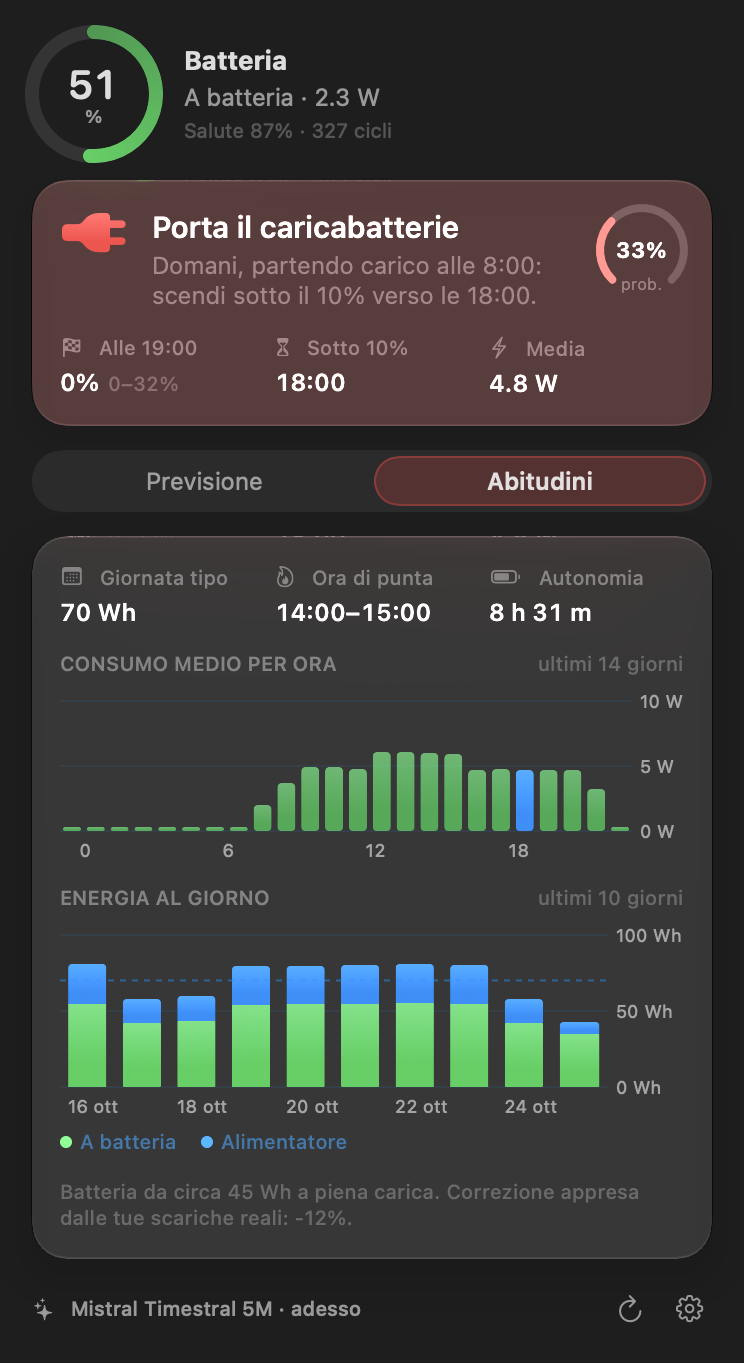
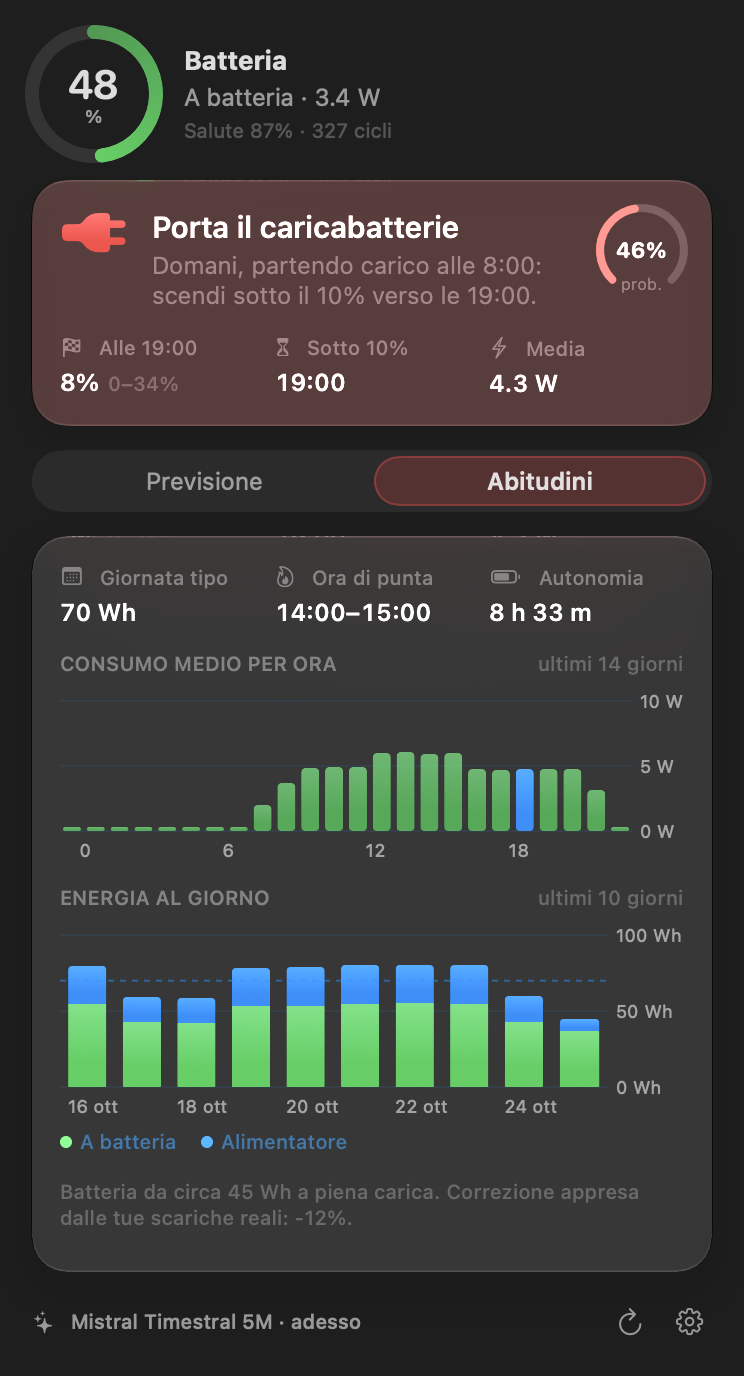
Open settings in a window and fix popover clipping
A MenuBarExtra window keeps the height it opened with, so the settings
form and the taller Habits tab were cut off. Settings now open in their
own window and both tabs share a fixed height.

diff --git a/Sources/BatteryOracle/Views/PopoverView.swift b/Sources/BatteryOracle/Views/PopoverView.swift
@@ -7,33 +7,30 @@ struct PopoverView: View {
 
     enum Tab: String, CaseIterable { case forecast = "Previsione", habits = "Abitudini" }
 
+    /// A MenuBarExtra window keeps the size it opened with, so both tabs share one fixed height.
+    static let tabHeight: CGFloat = 368
+
     /// View-local state lives here: the Command Line Tools SDK ships SwiftUI's `@State` as a macro without its plugin.
     final class PopoverState: ObservableObject {
         @Published var tab = CommandLine.arguments.contains("--habits") ? Tab.habits : Tab.forecast
-        @Published var showSettings = CommandLine.arguments.contains("--settings")
     }
 
     var body: some View {
         VStack(alignment: .leading, spacing: 12) {
-            if ui.showSettings {
-                SettingsView(m: m) { withAnimation(.smooth) { ui.showSettings = false } }
-                    .transition(.move(edge: .trailing).combined(with: .opacity))
-            } else {
+            header
+            if m.battery == nil {
+                noBattery
+            } else if let o = m.outlook {
+                VerdictCard(o: o, m: m)
+                CapsuleTabs(selection: $ui.tab, tint: o.verdict.color)
                 Group {
-                    header
-                    if m.battery == nil {
-                        noBattery
-                    } else if let o = m.outlook {
-                        VerdictCard(o: o, m: m)
-                        CapsuleTabs(selection: $ui.tab, tint: o.verdict.color)
-                        if ui.tab == .forecast { ForecastChart(o: o, m: m) } else { HabitsView(m: m) }
-                    } else {
-                        learning
-                    }
-                    footer
+                    if ui.tab == .forecast { ForecastChart(o: o, m: m) } else { HabitsView(m: m) }
                 }
-                .transition(.move(edge: .leading).combined(with: .opacity))
+                .frame(height: Self.tabHeight, alignment: .top)
+            } else {
+                learning
             }
+            footer
         }
         .padding(16)
         .frame(width: 372)
@@ -101,7 +98,7 @@ struct PopoverView: View {
             Spacer()
             Button { m.forecastNow() } label: { Image(systemName: "arrow.clockwise").frame(width: 22, height: 22) }
                 .help("Ricalcola la previsione").disabled(m.isForecasting)
-            Button { withAnimation(.smooth) { ui.showSettings = true } } label: { Image(systemName: "gearshape").frame(width: 22, height: 22) }
+            Button { SettingsWindow.show(m) } label: { Image(systemName: "gearshape").frame(width: 22, height: 22) }
                 .help("Impostazioni")
         }
         .buttonStyle(.plain)
@@ -276,8 +273,9 @@ struct ForecastChart: View {
                         else { hoverState.date = nil }
                     }
             }
-            .frame(height: 150)
+            .frame(minHeight: 150, maxHeight: .infinity)
         }
+        .frame(maxHeight: .infinity, alignment: .top)
         .card()
     }
 }

diff --git a/Sources/BatteryOracle/BatteryOracleApp.swift b/Sources/BatteryOracle/BatteryOracleApp.swift
@@ -66,7 +66,8 @@ enum PreviewWindow {
             effect.layer?.backgroundColor = NSColor(white: 0.14, alpha: 1).cgColor
             w.appearance = NSAppearance(named: .darkAqua)
         }
-        let host = NSHostingView(rootView: PopoverView(m: m).padding(.top, 18)
+        let root = CommandLine.arguments.contains("--settings") ? AnyView(SettingsView(m: m).padding(16)) : AnyView(PopoverView(m: m))
+        let host = NSHostingView(rootView: root.padding(.top, 18)
             .background(snapshot == nil ? Color.clear : Color(white: 0.14))
             .preferredColorScheme(snapshot == nil ? nil : .dark))
         host.translatesAutoresizingMaskIntoConstraints = false
@@ -86,7 +87,7 @@ enum PreviewWindow {
         if let i = snapshot, i + 1 < CommandLine.arguments.count {
             let path = CommandLine.arguments[i + 1]
             DispatchQueue.main.asyncAfter(deadline: .now() + 8) {
-                let renderer = ImageRenderer(content: PopoverView(m: m)
+                let renderer = ImageRenderer(content: root.frame(width: 372)
                     .background(Color(white: 0.12))
                     .environment(\.colorScheme, .dark))
                 renderer.scale = 2
@@ -97,5 +98,31 @@ enum PreviewWindow {
                 NSApp.terminate(nil)
             }
         }
+    }
+}
+
+/// Settings live in a regular window: a long form doesn't belong in a menu bar popover,
+/// whose height is fixed when it opens.
+@MainActor
+enum SettingsWindow {
+    private static var window: NSWindow?
+
+    static func show(_ m: AppModel) {
+        if window == nil {
+            let w = NSWindow(contentRect: NSRect(x: 0, y: 0, width: 400, height: 500),
+                             styleMask: [.titled, .closable, .fullSizeContentView], backing: .buffered, defer: false)
+            w.title = "Impostazioni di BatteryOracle"
+            w.titlebarAppearsTransparent = true
+            w.isReleasedWhenClosed = false
+            let host = NSHostingView(rootView: SettingsView(m: m)
+                .padding(.horizontal, 20).padding(.bottom, 20).padding(.top, 36)
+                .frame(width: 400))
+            w.contentView = host
+            w.setContentSize(host.fittingSize)
+            w.center()
+            window = w
+        }
+        NSApp.activate(ignoringOtherApps: true)
+        window?.makeKeyAndOrderFront(nil)
     }
 }

diff --git a/Sources/BatteryOracle/Views/SettingsView.swift b/Sources/BatteryOracle/Views/SettingsView.swift
@@ -2,7 +2,6 @@ import SwiftUI
 
 struct SettingsView: View {
     @ObservedObject var m: AppModel
-    var close: () -> Void
 
     static let models = [("mistralai/Timestral-5M", "5M · istantaneo"),
                          ("mistralai/Timestral-28M", "28M · bilanciato"),
@@ -10,14 +9,6 @@ struct SettingsView: View {
 
     var body: some View {
         VStack(alignment: .leading, spacing: 12) {
-            HStack {
-                Button(action: close) { Label("Indietro", systemImage: "chevron.left") }.buttonStyle(.borderless)
-                Spacer()
-                Text("Impostazioni").font(.headline)
-                Spacer()
-                Color.clear.frame(width: 60, height: 1)
-            }
-
             VStack(alignment: .leading, spacing: 10) {
                 SectionTitle(text: "Giornata")
                 row("Fine giornata", "flag.checkered") {

diff --git a/Sources/BatteryOracle/Views/HabitsView.swift b/Sources/BatteryOracle/Views/HabitsView.swift
@@ -68,6 +68,7 @@ struct HabitsView: View {
 
             Text(calibrationNote).font(.caption2).foregroundStyle(.tertiary).fixedSize(horizontal: false, vertical: true)
         }
+        .frame(maxHeight: .infinity, alignment: .top)
         .card()
     }
 
